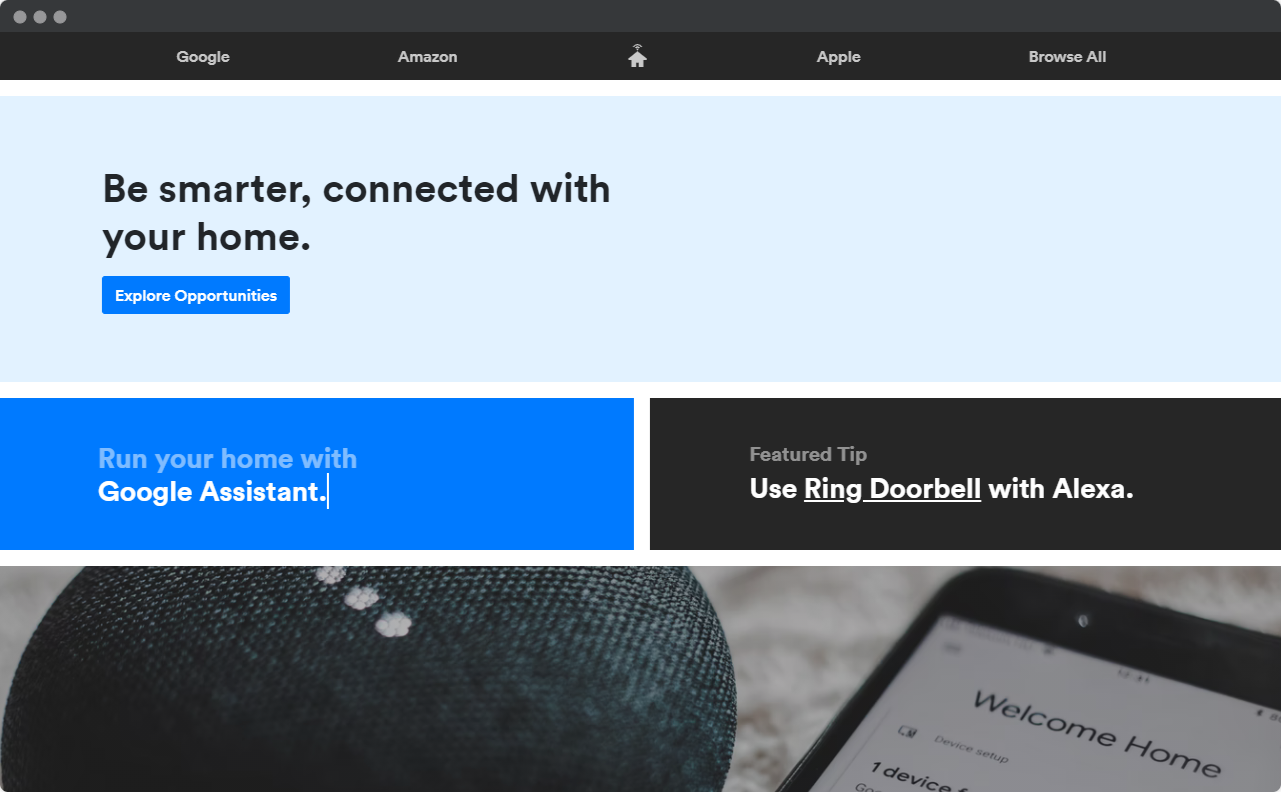
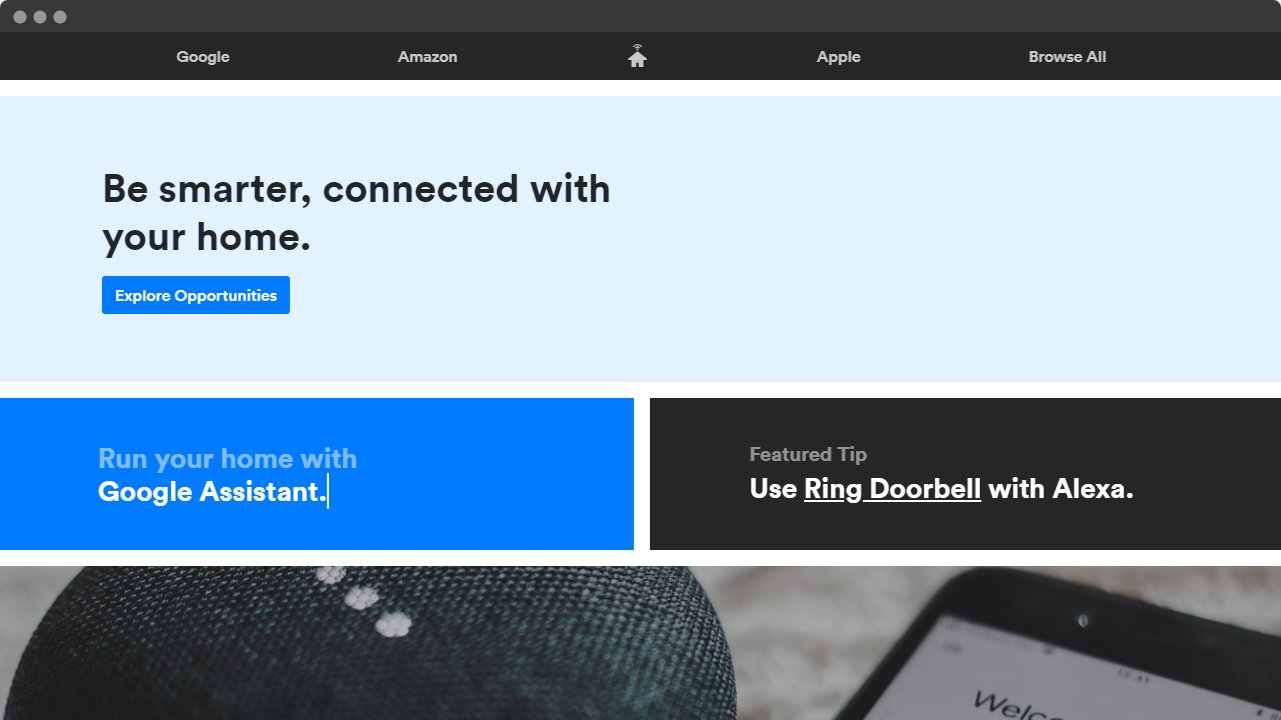
Carousel

diff --git a/index.html b/index.html
@@ -173,13 +173,13 @@
               <button type="button" data-bs-target="#screenshots" data-bs-slide-to="2" aria-label="Slide 3"></button>
             </div>
             <div class="carousel-inner">
-              <div class="carousel-item active">
+              <div class="carousel-item active" style="background-image: url(/jumbotron/assets/images/screenshot1.png);">
                 <img class="d-block w-100" src="/jumbotron/assets/images/screenshot1.png">
               </div>
-              <div class="carousel-item">
+              <div class="carousel-item" style="background-image: url(/jumbotron/assets/images/screenshot2.png);">
                 <img class="d-block w-100" src="/jumbotron/assets/images/screenshot2.png">
               </div>
-              <div class="carousel-item">
+              <div class="carousel-item" style="background-image: url(/jumbotron/assets/images/screenshot3.png);">
                 <img class="d-block w-100" src="/jumbotron/assets/images/screenshot3.png">
               </div>
             </div>

diff --git a/jumbotron/assets/css/style.css b/jumbotron/assets/css/style.css
@@ -235,12 +235,24 @@ input, label {
 
   .carousel {
       position: relative;
-      max-height: 500px;
+      height: 100%;
       margin-bottom: -10px;
+      overflow: hidden !important;
   }
 
   .carousel-inner {
-      overflow: visible !important;
+    height: 100%;
+  }
+  
+  .carousel-item {
+    background-size: cover;
+    background-position: 50% 00%;
+    width: 100%;
+    height: 100%;
+  }
+  
+  .carousel-item img {
+    visibility: hidden;
   }
 
   .rounded-form {
